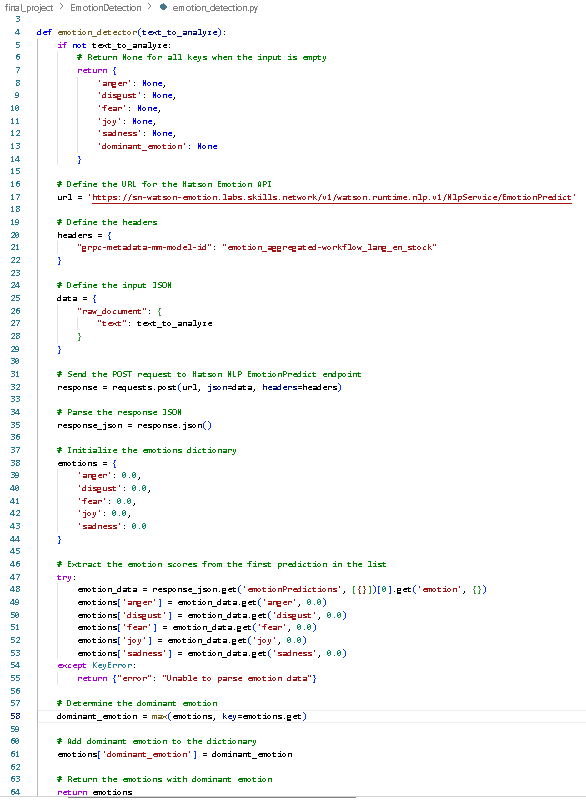
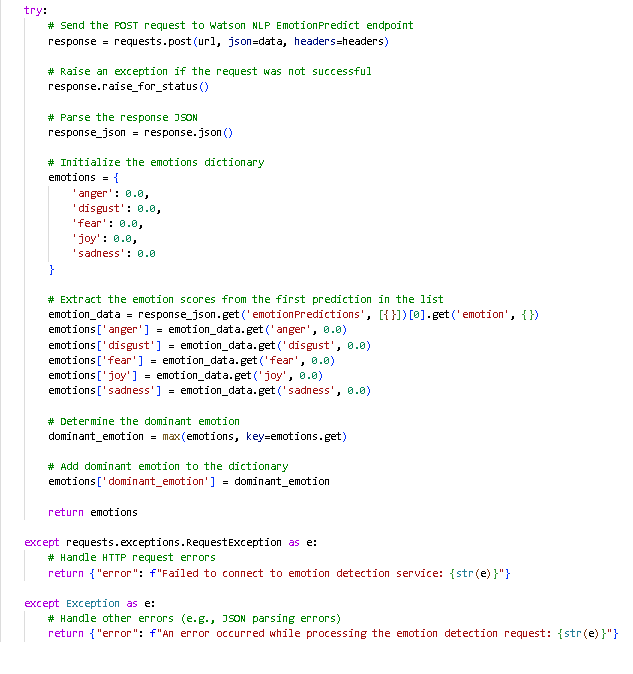
Fix error handling and deployment

diff --git a/static/mywebscript.js b/static/mywebscript.js
@@ -1,27 +1,29 @@
 let RunSentimentAnalysis = () => {
     let textToAnalyze = document.getElementById("textToAnalyze").value;
 
-    // Create the data object for the POST request
-    let data = {
-        text: textToAnalyze
-    };
+    // Check if input is empty
+    if (!textToAnalyze.trim()) {
+        document.getElementById("system_response").innerHTML = `<div class="alert alert-danger">Invalid input! Please provide text to be analyzed.</div>`;
+        return; // Prevent further execution if input is empty
+    }
 
-    // Create an XMLHttpRequest for the POST request
     let xhttp = new XMLHttpRequest();
     xhttp.onreadystatechange = function () {
-        if (this.readyState == 4 && this.status == 200) {
-            // Display the response text in the system_response div
-            document.getElementById("system_response").innerHTML = JSON.parse(this.responseText).response;
-        } else if (this.readyState == 4 && this.status == 400) {
-            // Display error message if no text is provided
-            document.getElementById("system_response").innerHTML = "Error: No text provided!";
+        if (this.readyState == 4) {
+            // Check if the response status is 200 (success)
+            if (this.status == 200) {
+                document.getElementById("system_response").innerHTML = this.responseText;
+            } else {
+                // If not 200, display the error message
+                let errorResponse = JSON.parse(this.responseText); // Parse the JSON error response
+                document.getElementById("system_response").innerHTML = `<div class="alert alert-danger">${errorResponse.error}</div>`;
+            }
         }
     };
 
-    // Open the POST request and set the correct headers
     xhttp.open("POST", "/emotionDetector", true);
     xhttp.setRequestHeader("Content-Type", "application/json");
 
-    // Send the request with the JSON data
-    xhttp.send(JSON.stringify(data));
-}
+    // Send the text as JSON in the body of the request
+    xhttp.send(JSON.stringify({ text: textToAnalyze }));
+};

diff --git a/templates/index.html b/templates/index.html
@@ -18,7 +18,7 @@
             <div style="padding: 25px 25px 25px 25px;">
                 <h2 class="mb-3">
                     <label class="form-label">Please enter the text to be analyzed</label>
-                    <input type="text" class="form-control" id="textToAnalyze">
+                    <input type="textarea" class="form-control" id="textToAnalyze">
                 </h2>
 
                 <div style="padding: 25px 25px 25px 25px;">
@@ -33,5 +33,3 @@
             </div>
         </div>
 </body>
-
-</html>

diff --git a/EmotionDetection/emotion_detection.py b/EmotionDetection/emotion_detection.py
@@ -10,7 +10,8 @@ def emotion_detector(text_to_analyze):
             'fear': None,
             'joy': None,
             'sadness': None,
-            'dominant_emotion': None
+            'dominant_emotion': None,
+            'error': "Text cannot be empty. Please provide text to analyze."
         }
 
     # Define the URL for the Watson Emotion API
@@ -28,37 +29,45 @@ def emotion_detector(text_to_analyze):
         }
     }
 
-    # Send the POST request to Watson NLP EmotionPredict endpoint
-    response = requests.post(url, json=data, headers=headers)
-
-    # Parse the response JSON
-    response_json = response.json()
-
-    # Initialize the emotions dictionary
-    emotions = {
-        'anger': 0.0,
-        'disgust': 0.0,
-        'fear': 0.0,
-        'joy': 0.0,
-        'sadness': 0.0
-    }
-
-    # Extract the emotion scores from the first prediction in the list
     try:
+        # Send the POST request to Watson NLP EmotionPredict endpoint
+        response = requests.post(url, json=data, headers=headers)
+
+        # Raise an exception if the request was not successful
+        response.raise_for_status()
+
+        # Parse the response JSON
+        response_json = response.json()
+
+        # Initialize the emotions dictionary
+        emotions = {
+            'anger': 0.0,
+            'disgust': 0.0,
+            'fear': 0.0,
+            'joy': 0.0,
+            'sadness': 0.0
+        }
+
+        # Extract the emotion scores from the first prediction in the list
         emotion_data = response_json.get('emotionPredictions', [{}])[0].get('emotion', {})
         emotions['anger'] = emotion_data.get('anger', 0.0)
         emotions['disgust'] = emotion_data.get('disgust', 0.0)
         emotions['fear'] = emotion_data.get('fear', 0.0)
         emotions['joy'] = emotion_data.get('joy', 0.0)
         emotions['sadness'] = emotion_data.get('sadness', 0.0)
-    except KeyError:
-        return {"error": "Unable to parse emotion data"}
 
-    # Determine the dominant emotion
-    dominant_emotion = max(emotions, key=emotions.get)
-    
-    # Add dominant emotion to the dictionary
-    emotions['dominant_emotion'] = dominant_emotion
+        # Determine the dominant emotion
+        dominant_emotion = max(emotions, key=emotions.get)
 
-    # Return the emotions with dominant emotion
-    return emotions
+        # Add dominant emotion to the dictionary
+        emotions['dominant_emotion'] = dominant_emotion
+
+        return emotions
+
+    except requests.exceptions.RequestException as e:
+        # Handle HTTP request errors
+        return {"error": f"Failed to connect to emotion detection service: {str(e)}"}
+
+    except Exception as e:
+        # Handle other errors (e.g., JSON parsing errors)
+        return {"error": f"An error occurred while processing the emotion detection request: {str(e)}"}

diff --git a/server.py b/server.py
@@ -14,39 +14,39 @@ def home():
 
 @app.route('/emotionDetector', methods=['POST'])
 def emotion_detector_route():
-    """
-    Handles POST requests to the /emotionDetector endpoint.
-    This function processes the input text, analyzes emotions using the emotion_detector function,
-    and returns the emotion analysis result as a formatted response.
+    try:
+        # Get the text from the request JSON body
+        data = request.get_json()
 
-    Returns:
-        Response: A JSON response containing the emotion analysis.
-    """
-    # Get the text from the request JSON body
-    data = request.get_json()
+        if not data or 'text' not in data or not data['text'].strip():
+            return jsonify({"error": "Invalid input! Please provide text to be analyzed."}), 400
 
-    if not data or 'text' not in data:
-        return jsonify({"error": "No text provided"}), 400
+        # Get the statement to analyze
+        text_to_analyze = data['text']
 
-    # Get the statement to analyze
-    text_to_analyze = data['text']
+        # Call the emotion detector function
+        emotions = emotion_detector(text_to_analyze)
 
-    # Call the emotion detector function
-    emotions = emotion_detector(text_to_analyze)
+        if "error" in emotions:
+            return jsonify({"error": f"Error in emotion detection: {emotions['error']}"}), 500
 
-    # Create the output response message in the required format
-    dominant_emotion = emotions['dominant_emotion']
-    response_message = (
-        f"For the given statement, the system response is 'anger': {emotions['anger']}, "
-        f"'disgust': {emotions['disgust']}, 'fear': {emotions['fear']}, 'joy': {emotions['joy']}, "
-        f"and 'sadness': {emotions['sadness']}. The dominant emotion is {dominant_emotion}."
-    )
+        if not any(emotions[key] is not None for key in emotions if key != 'dominant_emotion'):
+            return jsonify({"error": "Unable to detect emotions. Please try with a different text."}), 400
 
-    # Return the response
-    return jsonify({"response": response_message})
+        dominant_emotion = emotions['dominant_emotion']
+        response_message = (
+            f"For the given statement, the system response is 'anger': {emotions['anger']}, "
+            f"'disgust': {emotions['disgust']}, 'fear': {emotions['fear']}, 'joy': {emotions['joy']}, "
+            f"and 'sadness': {emotions['sadness']}. The dominant emotion is {dominant_emotion}."
+        )
+
+        return jsonify({"response": response_message})
+
+    except Exception as e:
+        return jsonify({"error": f"An unexpected error occurred: {str(e)}. Please try again later."}), 500
+
 
 
 if __name__ == '__main__':
     # Start the Flask web server.
-    # Runs the application on localhost:5000.
     app.run(debug=True, host='0.0.0.0', port=5000)
